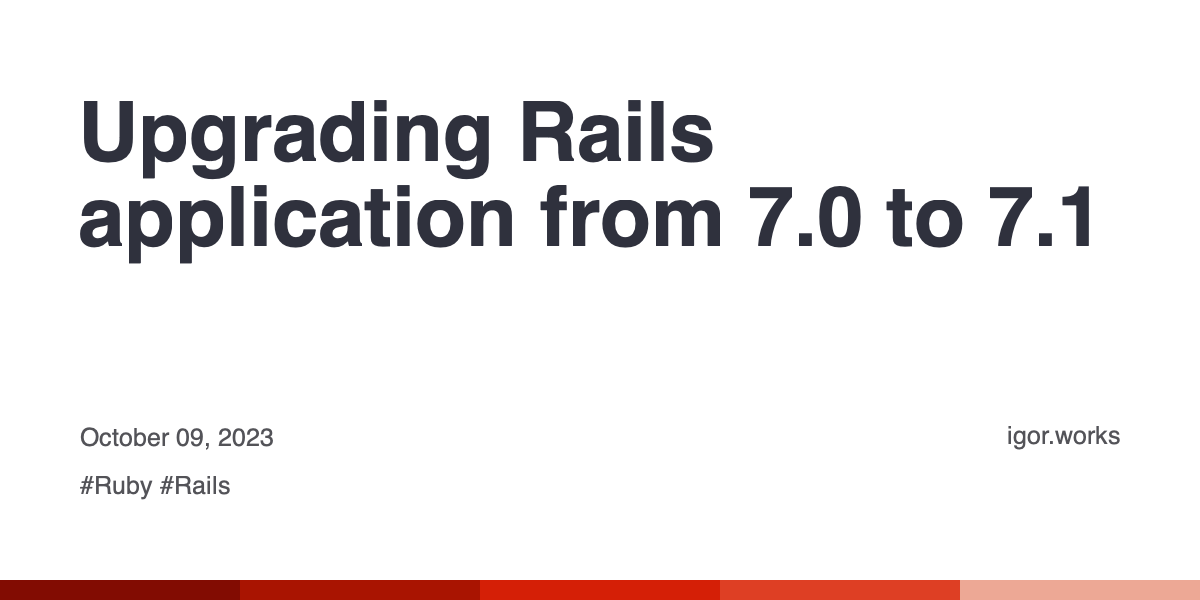
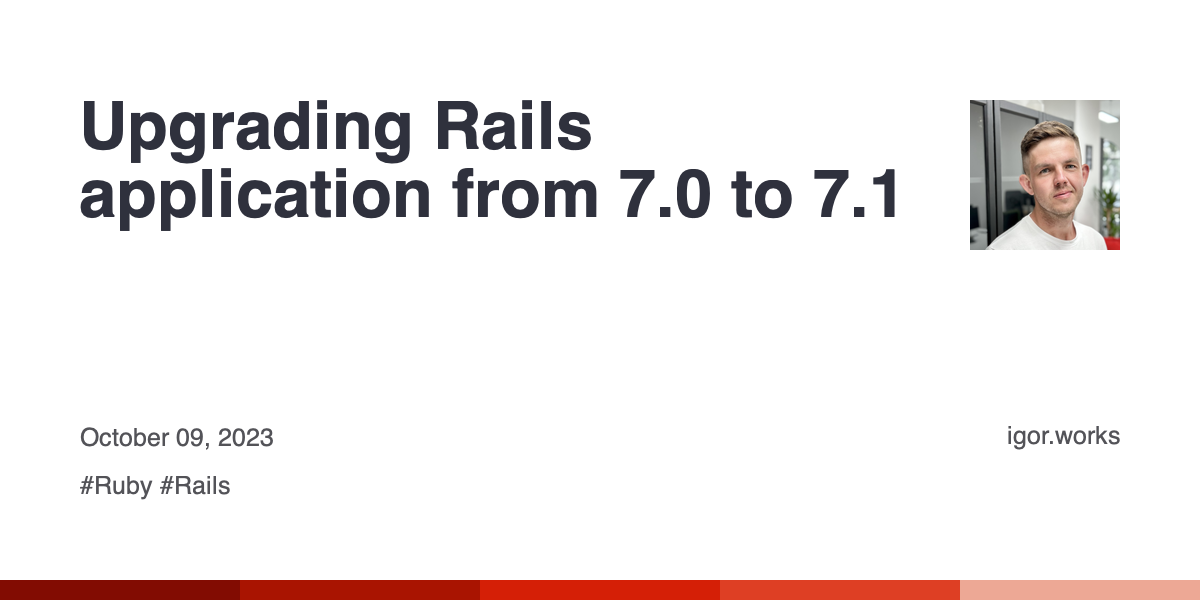
Added ability to add images to the canvas

Changed region(s): [[0.0617, 0.15, 0.9558, 0.45]]

diff --git a/lib/jekyll_og_image/generator.rb b/lib/jekyll_og_image/generator.rb
@@ -35,37 +35,48 @@ class JekyllOgImage::Generator < Jekyll::Generator
   def generate_image_for_post(site, post, path)
     date = post.date.strftime("%B %d, %Y")
 
-    image = JekyllOgImage::Element::Image.new(1200, 600)
+    canvas = JekyllOgImage::Element::Canvas.new(1200, 600)
       .border(JekyllOgImage.config.border_bottom["width"],
         position: :bottom,
         fill: JekyllOgImage.config.border_bottom["fill"]
       )
-      .text(post.data["title"], width: 1040, color: "#2f313d", dpi: 500, font: "Helvetica, Bold") do |_canvas, _text|
-        {
-          x: 80,
-          y: 100
-        }
-      end
-      .text(date, gravity: :sw, color: "#535358", dpi: 150, font: "Helvetica, Regular") do |_canvas, _text|
-        {
-          x: 80,
-          y: post.data["tags"].any? ? 150 : 100
-        }
-      end
+
+    if JekyllOgImage.config.image
+      canvas = canvas.image(
+        File.read(File.join(site.config["source"], JekyllOgImage.config.image)),
+        gravity: :ne,
+        width: 150,
+        height: 150
+      ) { |_canvas, _text| { x: 80, y: 100 } }
+    end
+
+    canvas = canvas.text(post.data["title"],
+      width: JekyllOgImage.config.image ? 870 : 1040,
+      color: "#2f313d",
+      dpi: 400,
+      font: "Helvetica, Bold"
+    ) { |_canvas, _text| { x: 80, y: 100 } }
+
+    canvas = canvas.text(date,
+      gravity: :sw,
+      color: "#535358",
+      dpi: 150,
+      font: "Helvetica, Regular"
+    ) { |_canvas, _text| { x: 80, y: post.data["tags"].any? ? 150 : 100 } }
 
     if post.data["tags"].any?
       tags = post.data["tags"].map { |tag| "##{tag}" }.join(" ")
 
-      image = image.text(tags, gravity: :sw, color: "#535358", dpi: 150, font: "Helvetica, Regular") do |_canvas, _text|
-        {
-          x: 80,
-          y: 100
-        }
-      end
+      canvas = canvas.text(tags,
+        gravity: :sw,
+        color: "#535358",
+        dpi: 150,
+        font: "Helvetica, Regular"
+      ) { |_canvas, _text| { x: 80, y: 100 } }
     end
 
     if JekyllOgImage.config.domain
-      image = image.text(JekyllOgImage.config.domain, gravity: :se, color: "#535358", dpi: 150, font: "Helvetica, Regular") do |_canvas, _text|
+      canvas = canvas.text(JekyllOgImage.config.domain, gravity: :se, color: "#535358", dpi: 150, font: "Helvetica, Regular") do |_canvas, _text|
         {
           x: 80,
           y: post.data["tags"].any? ? 150 : 100
@@ -73,6 +84,6 @@ class JekyllOgImage::Generator < Jekyll::Generator
       end
     end
 
-    image.save(path)
+    canvas.save(path)
   end
 end

diff --git a/lib/jekyll_og_image/element/image.rb b/lib/jekyll_og_image/element/image.rb
@@ -1,33 +1,55 @@
 # frozen_string_literal: true
 
-require "vips"
-
 class JekyllOgImage::Element::Image < JekyllOgImage::Element::Base
-  def initialize(width, height, color: "#ffffff")
-    @canvas = Vips::Image.black(width, height).ifthenelse([ 0, 0, 0 ], hex_to_rgb(color))
+  def initialize(canvas, source, gravity: :nw, width:, height:)
+    @canvas = canvas
+    @gravity = gravity
+    @source = source
+    @width = width
+    @height = height
+
+    validate_gravity!
   end
 
-  def text(message, **opts, &block)
-    text = JekyllOgImage::Element::Text.new(
-      @canvas, message, **opts
-    )
+  def apply(&block)
+    image = Vips::Image.new_from_buffer(@source, "")
+    result = block.call(@canvas, image) if block_given?
 
-    @canvas = text.apply(&block)
+    if @width && @height
+      ratio = calculate_ratio(image, @width, @height, :min)
+      image = image.resize(ratio)
+    end
 
-    self
+    x, y = result ? [ result.fetch(:x, 0), result.fetch(:y, 0) ] : [ 0, 0 ]
+
+    if gravity_nw?
+      @canvas.composite(image, :over, x: [ x ], y: [ y ]).flatten
+    elsif gravity_ne?
+      x = @canvas.width - image.width - x
+      @canvas.composite(image, :over, x: [ x ], y: [ y ]).flatten
+    elsif gravity_sw?
+      y = @canvas.height - image.height - y
+      @canvas.composite(image, :over, x: [ x ], y: [ y ]).flatten
+    elsif gravity_se?
+      x = @canvas.width - image.width - x
+      y = @canvas.height - image.height - y
+      @canvas.composite(image, :over, x: [ x ], y: [ y ]).flatten
+    end
   end
 
-  def border(width, position: :bottom, fill: "#000000")
-    @canvas = JekyllOgImage::Element::Border.new(
-      @canvas, width,
-      position: position,
-      fill: fill
-    ).apply
+  private
 
-    self
+  VALID_GRAVITY.each do |gravity|
+    define_method("gravity_#{gravity}?") do
+      @gravity == gravity
+    end
   end
 
-  def save(filename)
-    @canvas.write_to_file(filename)
+  def calculate_ratio(image, width, height, mode)
+    if mode == :min
+      [ width.to_f / image.width, height.to_f / image.height ].min
+    else
+      [ width.to_f / image.width, height.to_f / image.height ].max
+    end
   end
 end

diff --git a/lib/jekyll_og_image/element/canvas.rb b/lib/jekyll_og_image/element/canvas.rb
@@ -1,0 +1,43 @@
+# frozen_string_literal: true
+
+require "vips"
+
+class JekyllOgImage::Element::Canvas < JekyllOgImage::Element::Base
+  def initialize(width, height, color: "#ffffff")
+    @canvas = Vips::Image.black(width, height).ifthenelse([ 0, 0, 0 ], hex_to_rgb(color))
+  end
+
+  def image(source, **opts, &block)
+    image = JekyllOgImage::Element::Image.new(
+      @canvas, source, **opts
+    )
+
+    @canvas = image.apply(&block)
+
+    self
+  end
+
+  def text(message, **opts, &block)
+    text = JekyllOgImage::Element::Text.new(
+      @canvas, message, **opts
+    )
+
+    @canvas = text.apply(&block)
+
+    self
+  end
+
+  def border(width, position: :bottom, fill: "#000000")
+    @canvas = JekyllOgImage::Element::Border.new(
+      @canvas, width,
+      position: position,
+      fill: fill
+    ).apply
+
+    self
+  end
+
+  def save(filename)
+    @canvas.write_to_file(filename)
+  end
+end

diff --git a/lib/jekyll_og_image/element/text.rb b/lib/jekyll_og_image/element/text.rb
@@ -1,8 +1,6 @@
 # frozen_string_literal: true
 
 class JekyllOgImage::Element::Text < JekyllOgImage::Element::Base
-  VALID_GRAVITY = %i[nw ne sw se].freeze
-
   def initialize(canvas, message, gravity: :nw, width: nil, dpi: nil, color: "#000000", font: nil)
     @canvas = canvas
     @gravity = gravity
@@ -47,12 +45,6 @@ class JekyllOgImage::Element::Text < JekyllOgImage::Element::Base
   VALID_GRAVITY.each do |gravity|
     define_method("gravity_#{gravity}?") do
       @gravity == gravity
-    end
-  end
-
-  def validate_gravity!
-    unless VALID_GRAVITY.include?(@gravity)
-      raise ArgumentError, "Invalid gravity: #{@gravity.inspect}"
     end
   end
 end

diff --git a/lib/jekyll_og_image/element/base.rb b/lib/jekyll_og_image/element/base.rb
@@ -1,6 +1,8 @@
 # frozen_string_literal: true
 
 class JekyllOgImage::Element::Base
+  VALID_GRAVITY = %i[nw ne sw se].freeze
+
   private
 
   def hex_to_rgb(input)
@@ -11,6 +13,12 @@ class JekyllOgImage::Element::Base
       input
     else
       raise ArgumentError, "Unknown input #{input.inspect}"
+    end
+  end
+
+  def validate_gravity!
+    unless VALID_GRAVITY.include?(@gravity)
+      raise ArgumentError, "Invalid gravity: #{@gravity.inspect}"
     end
   end
 end

diff --git a/lib/jekyll_og_image/config.rb b/lib/jekyll_og_image/config.rb
@@ -5,11 +5,14 @@ require "anyway_config"
 class JekyllOgImage::Config < Anyway::Config
   attr_config output_dir: "assets/images/og"
   attr_config force: false
+  attr_config :image
   attr_config :domain
   attr_config border_bottom: {
     width: 20,
     fill: [ "#211F1F", "#F4CBB2", "#AD5C51", "#9CDAF1", "#7DBBE6" ]
   }
+
+  coerce_types image: { type: :string }
 
   coerce_types border_bottom: {
     width: { type: :integer },

diff --git a/lib/jekyll_og_image/version.rb b/lib/jekyll_og_image/version.rb
@@ -1,5 +1,5 @@
 # frozen_string_literal: true
 
 module JekyllOgImage
-  VERSION = "1.0.3"
+  VERSION = "1.0.4"
 end

diff --git a/README.md b/README.md
@@ -47,6 +47,7 @@ og_image:
 ```yaml
 og_image:
   output_dir: "assets/images/og"
+  image: "/assets/images/igor.jpeg"
   domain: "igor.works"
   border_bottom:
     width: 20
